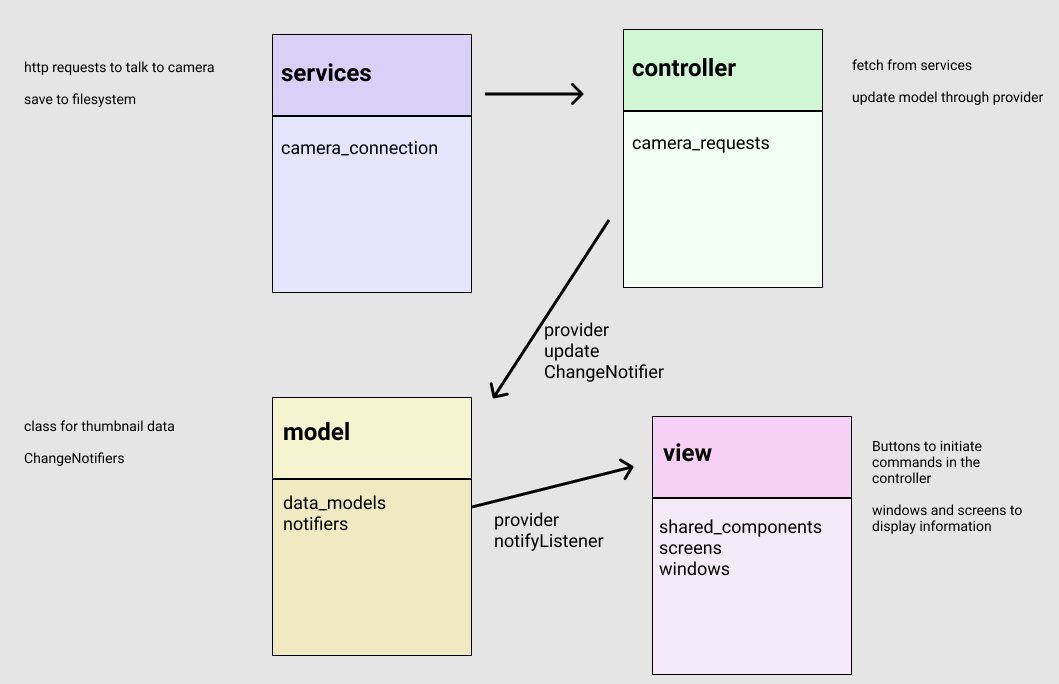
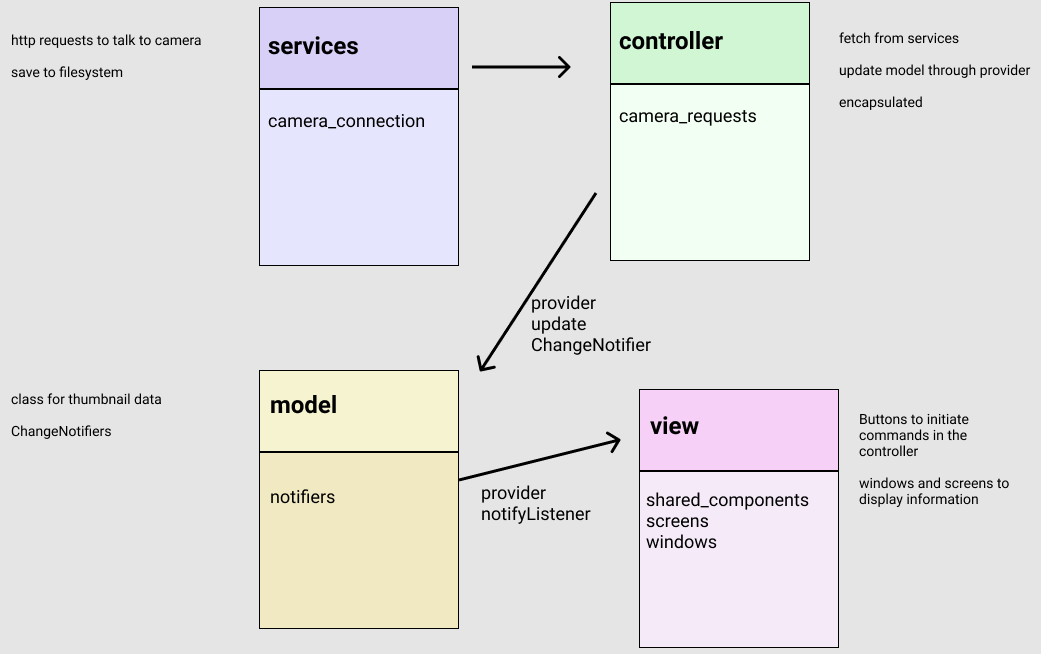
updated architectural diagram

diff --git a/README.md b/README.md
@@ -45,7 +45,8 @@ concepts for third-party sites
 
 ### Idea 2
 
-* model - it's sparse
+* model 
+  * ChangeNotifiers (provider)
 * view
   * gui sections
     * screens and windows (portion of screen)
@@ -57,8 +58,6 @@ concepts for third-party sites
   * local storage (for example if on Windows desktop, the pictures folder)
   * fundamental http connection, error handling
   * firebase
-* state
-  * ChangeNotifiers (I'm using provider)
 
 ## Reference
 
